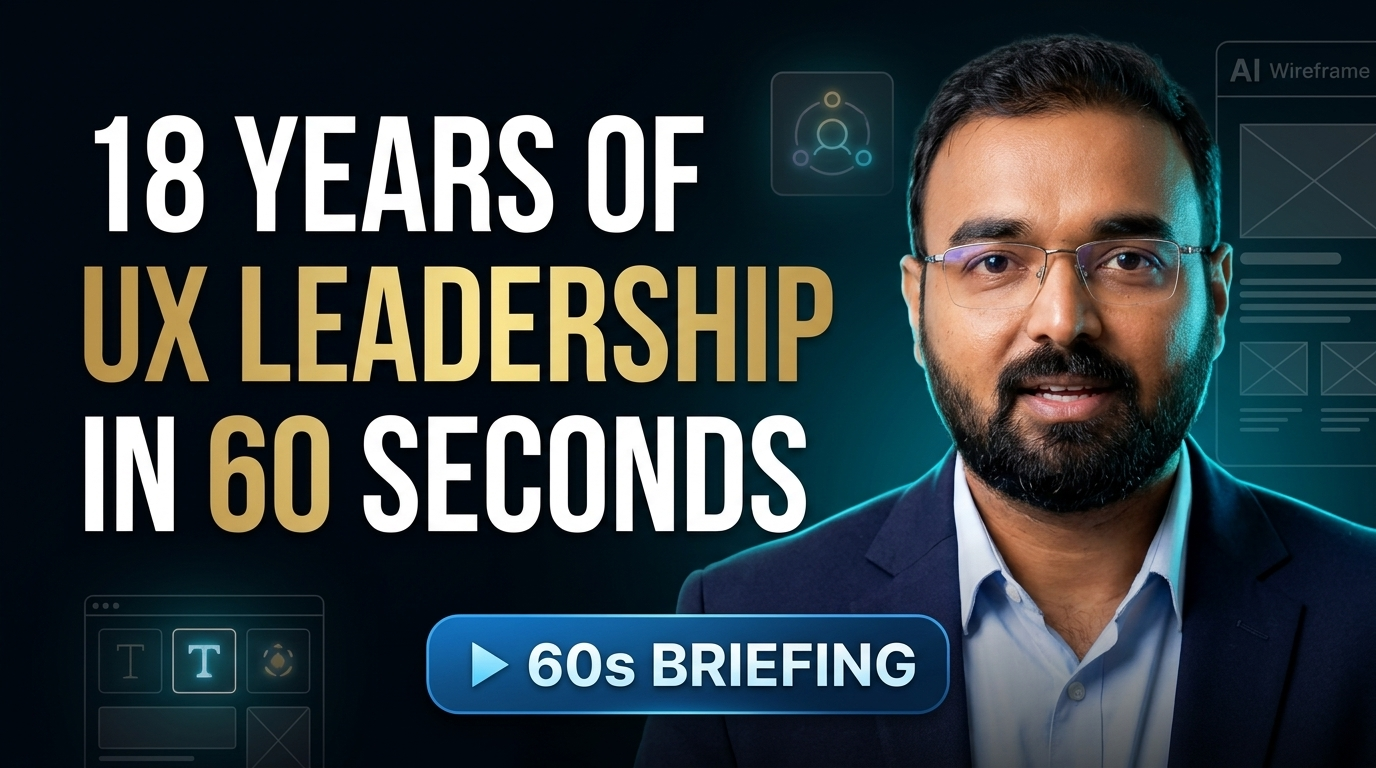
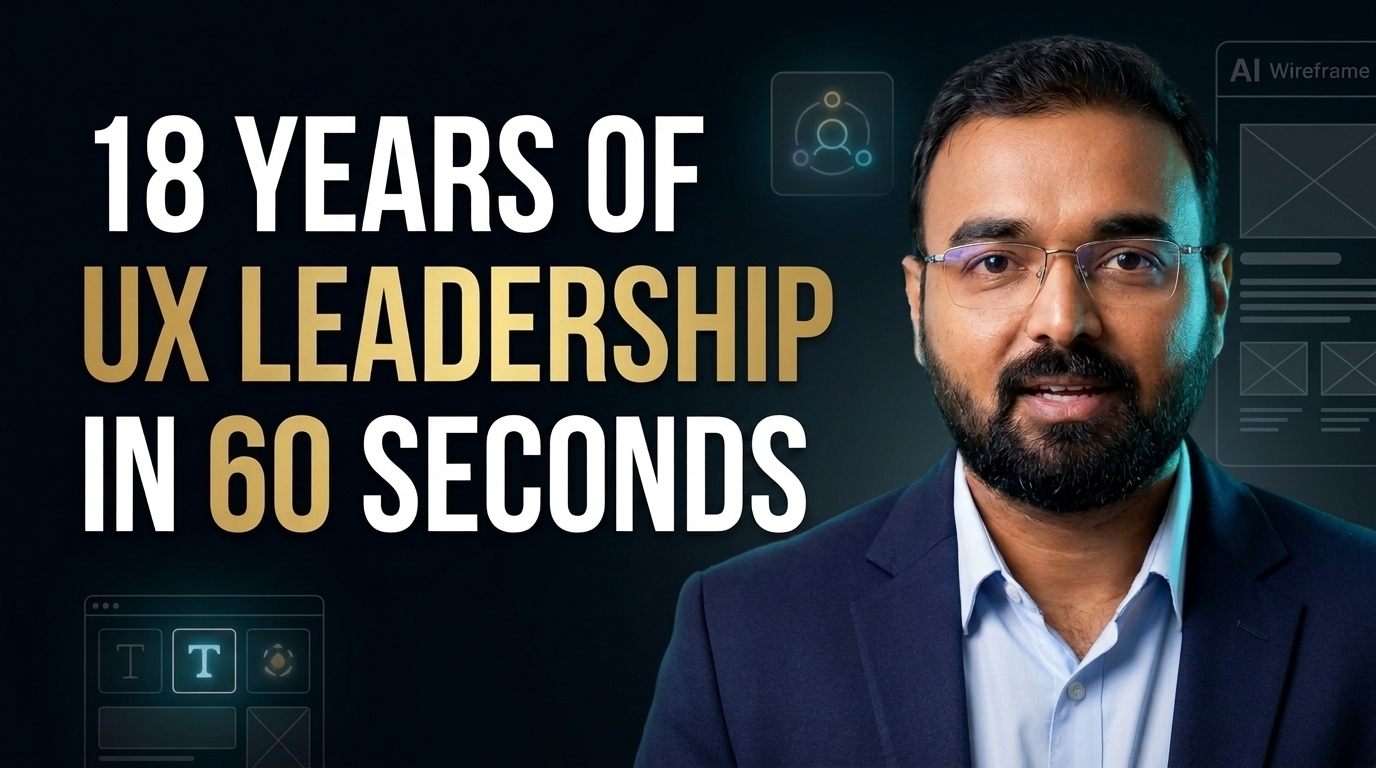
Remove 60s briefing pill overlay from video thumbnail and hero layouts

diff --git a/hero-comparison.html b/hero-comparison.html
@@ -1624,8 +1624,6 @@ body.comparison-mode .global-header {
         <div class="hero-video-col">
           <div class="video-showcase-box">
             <div class="video-player-frame">
-              <span class="video-time-tag">60s Video Briefing</span>
-              
               <video id="welcomeVideo" controls poster="video-thumbnail.jpg" preload="metadata">
                 <source src="intro.mp4" type="video/mp4">
                 Your browser does not support high-definition video playback.
@@ -1719,7 +1717,6 @@ body.comparison-mode .global-header {
           <div class="hero-video-col">
             <div class="video-showcase-box">
               <div class="video-player-frame">
-                <span class="video-time-tag">60s Briefing</span>
                 <video id="welcomeVideoA" controls poster="video-thumbnail.jpg" preload="metadata">
                   <source src="intro.mp4" type="video/mp4">
                   Your browser does not support high-definition video playback.

diff --git a/build_executive_suite.js b/build_executive_suite.js
@@ -864,9 +864,7 @@ const indexHtml = `<!DOCTYPE html>
         <div class="hero-right">
           <div class="video-showcase-box">
             <div class="video-player-frame">
-              <span class="video-time-tag">60s Video Briefing</span>
-              
-              <video id="welcomeVideo" controls poster="profile.jpg" preload="metadata">
+              <video id="welcomeVideo" controls poster="video-thumbnail.jpg" preload="metadata">
                 <source src="intro.mp4" type="video/mp4">
                 Your browser does not support high-definition video playback.
               </video>
